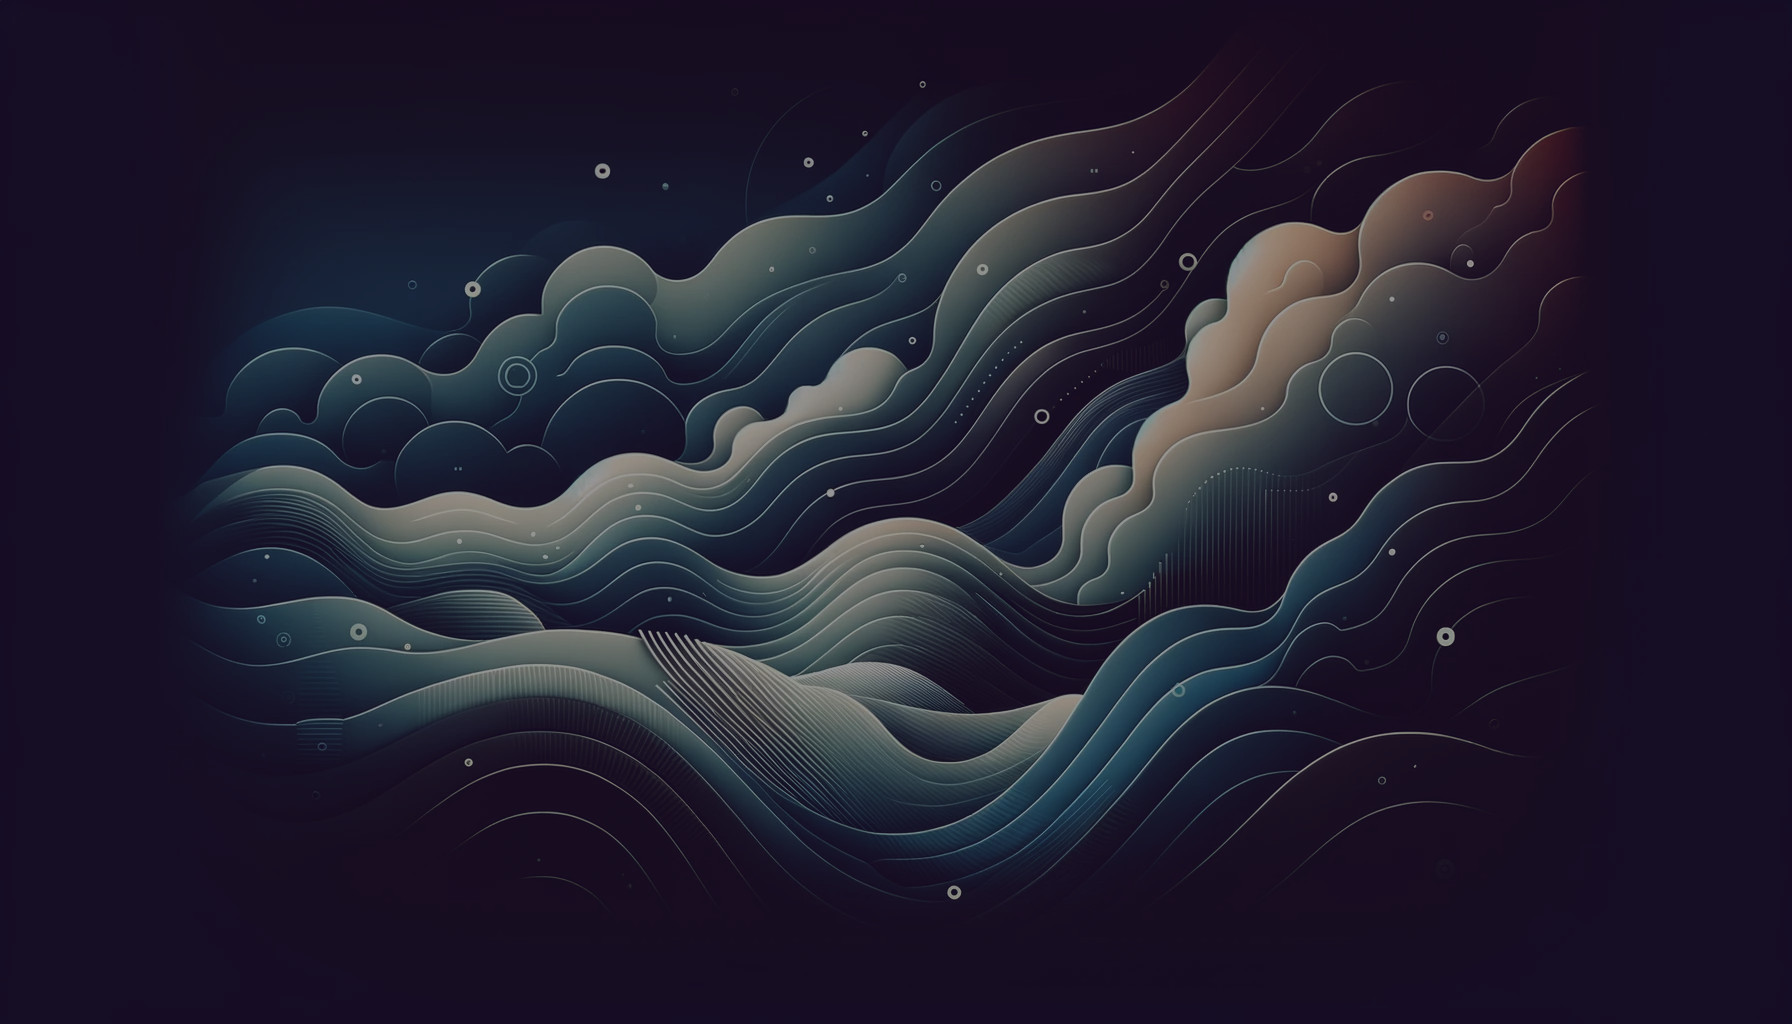
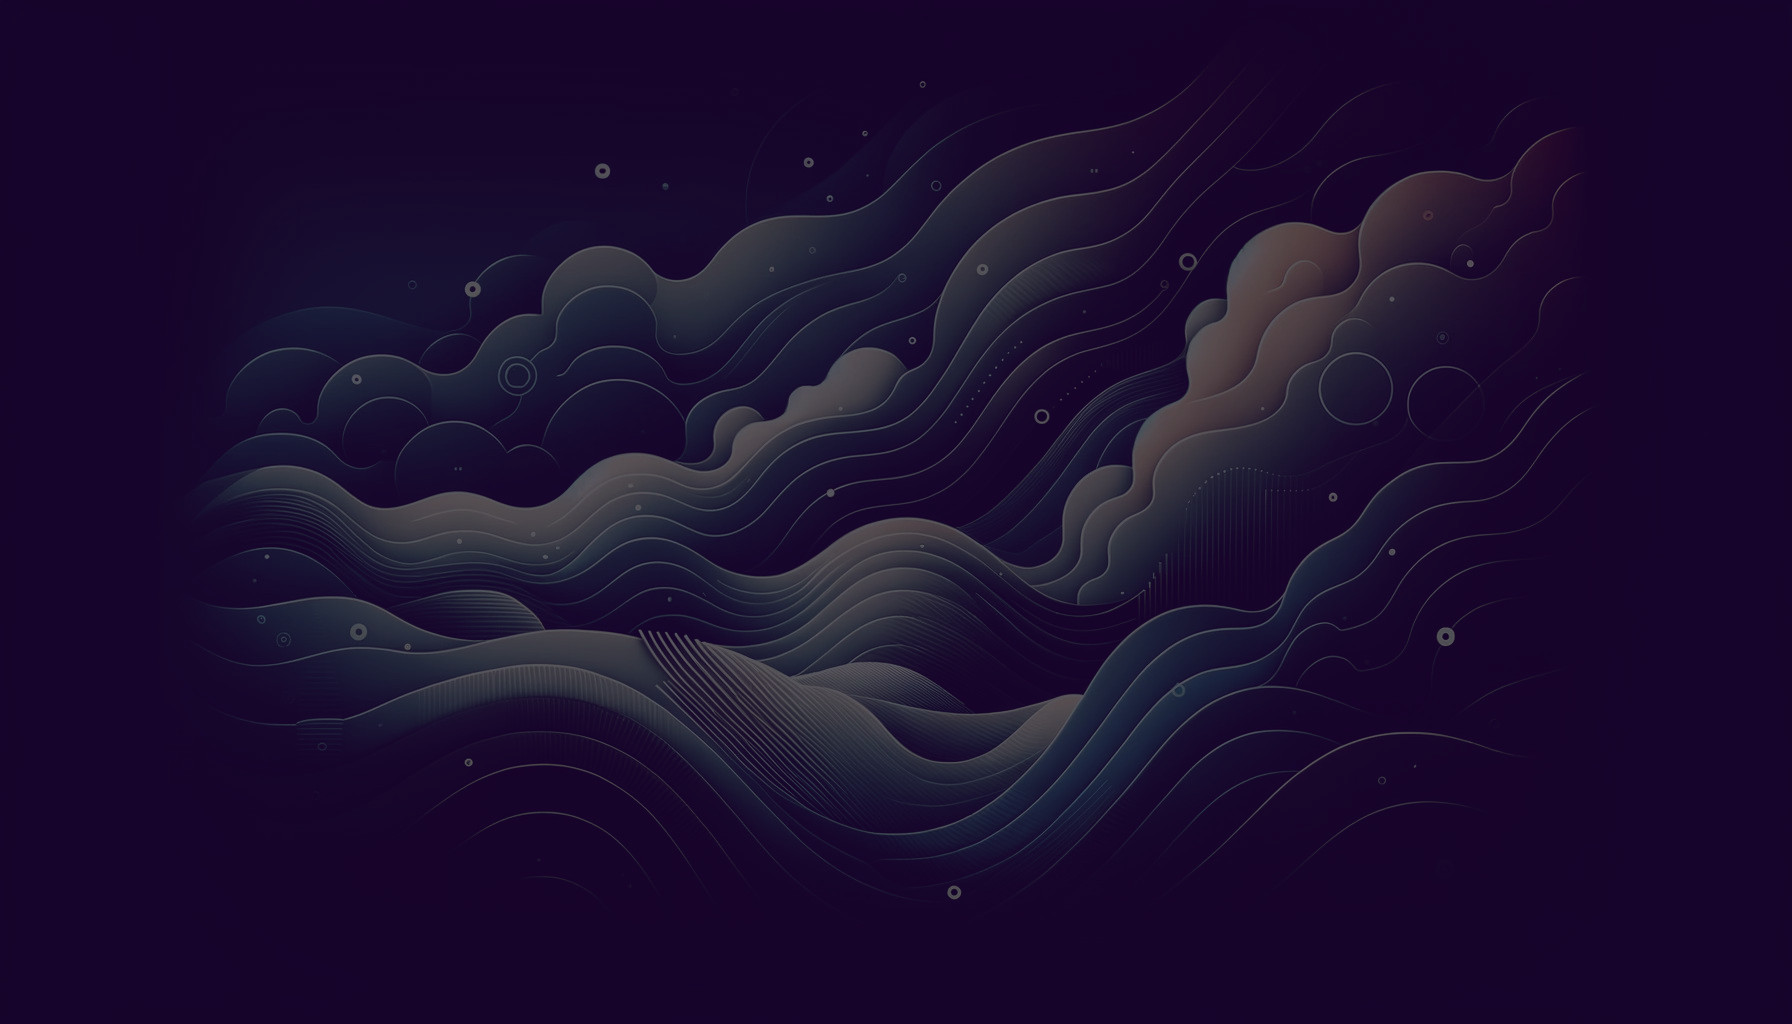
styling

diff --git a/index.html b/index.html
@@ -21,7 +21,7 @@
 
   <section class="hero">
     <div class="container">
-      <h2>The Intersection of Technology and Craftsmanship</h2>
+      <h2>The Intersection <br><span>of Technology and Craftsmanship</span></h2>
       <p>Join the pioneers shaping the future of artificial intelligence</p>
       <a href="https://meet.zoho.eu/1XBbxjYo3Z" class="cta-button" target="_blank">Register Now</a>
     </div>
@@ -41,17 +41,17 @@
   <section class="speakers" id="speakers">
     <div class="container">
       <h2>Speakers</h2>
-      <h3>Will be announced shortly</h3>
+      <h3 class="tmp">Will be announced shortly</h3>
       <!-- Speaker placeholders -->
       <div class="speaker-card">
         <img src="img/speaker.png" alt="Speaker Name" class="speaker-photo">
         <div class="speaker-info">
           <h3>Amazing Speaker</h3>
           <p class="speaker-bio">A brief bio of the speaker, highlighting their background and expertise.</p>
-          <p class="speaker-topic">Topic Title: AI is great</p>
+          <p class="speaker-topic">Topic: AI is great</p>
         </div>
       </div>`
-      <!-- 
+      <!--       
       <div class="speaker-card">
         <img src="img/speaker.png" alt="Speaker Name" class="speaker-photo">
         <div class="speaker-info">
@@ -68,11 +68,13 @@
     <div class="container">
       <h2>Register for CraftAICon</h2>
       <p>Join us to explore the future of AI and connect with industry leaders.</p>
+      <hr class="white-divider" />
       <ul>
-        <li>Discover the latest in AI technology.</li>
-        <li>Network with professionals.</li>
-        <li>Gain insights from leading experts.</li>
+        <li><b>Discover</b> the latest in AI technology.</li>
+        <li><b>Network</b> with professionals.</li>
+        <li><b>Gain insights</b> from leading experts.</li>
       </ul>
+      <hr class="white-divider" />
       <a href="https://meet.zoho.eu/1XBbxjYo3Z" class="cta-button" target="_blank">Sign Up Now</a>
     </div>
   </section>

diff --git a/styles.css b/styles.css
@@ -1,6 +1,5 @@
 :root {
-  --primary-color: #00dd73;
-  --secondary-color: #17002e;
+  --primary-color: #22a751;
 }
 
 body {
@@ -27,12 +26,25 @@ body {
   height: auto;
 }
 
+.site-header .date-badge {
+  font-family: "Montserrat", sans-serif;
+  font-weight: bold;
+  margin-top: 0.3rem;
+}
+
 .site-header h1,
 .hero h2,
 .about h2,
 .speakers h2,
 .register h2 {
   font-family: "Montserrat", sans-serif;
+  text-align: center;
+  font-size: 2rem;
+}
+
+.speakers .tmp {
+  text-align: center;
+
 }
 
 #logo {
@@ -53,7 +65,17 @@ body {
 
 .hero h2 {
   margin-bottom: 1rem;
-  font-size: 2.5rem;
+  line-height: 3.2rem;
+}
+
+.hero h2 span {
+  font-size: 2.7rem;
+}
+
+.hero p {
+  letter-spacing: 2px;
+  padding-top: 1rem;
+  padding-bottom: 1rem;
 }
 
 .cta-button,
@@ -80,7 +102,7 @@ a.cta-button:hover {
 .about,
 .speakers,
 .register {
-  padding: 3rem 0;
+  padding: 3rem 0 0;
 }
 
 .about p,
@@ -141,7 +163,7 @@ a.cta-button:hover {
 }
 
 .site-footer {
-  background-color: var(--secondary-color);
+  background-color: #10051a;
   color: #ffffff;
   padding: 2rem 0;
   text-align: center;
@@ -178,12 +200,16 @@ a.cta-button:hover {
 
 .register h2 {
   font-size: 2.5rem;
-  margin-bottom: 20px;
+  margin-bottom: 0.7rem;
+
 }
 
 .register p {
   font-size: 1.2rem;
   margin-bottom: 20px;
+  padding-top: 0;
+  margin-top: 0;
+  letter-spacing: 1px;
 }
 
 .register ul {
@@ -191,7 +217,19 @@ a.cta-button:hover {
   padding: 0;
 }
 
+.register .white-divider {
+  border: 0;
+  height: 1px;
+  /* Adjust the height to your preference */
+  background-color: rgba(255, 255, 255, 0.5);
+  /* This sets the divider color to white */
+  margin: 2rem auto;
+  /* This adds some space above and below the divider */
+  max-width: 50px;
+}
+
 .register li {
   font-size: 1rem;
   margin-bottom: 10px;
+  letter-spacing: 0.08rem;
 }
